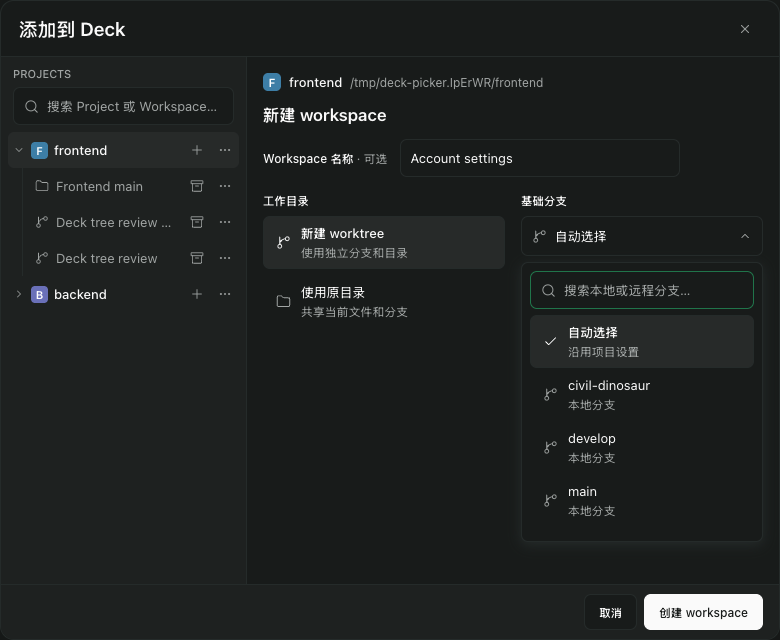
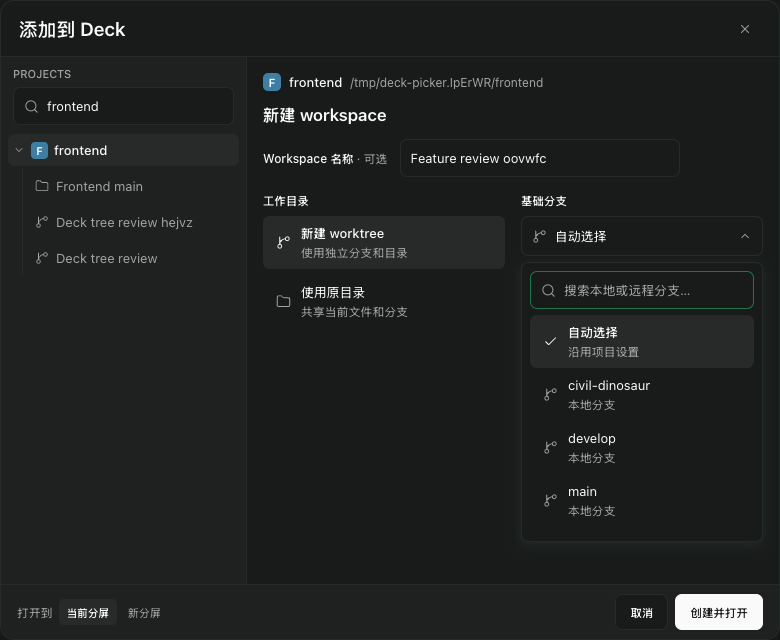
fix: open an Agent draft after creating a workspace (#4)

diff --git a/plugin/client/board.tsx b/plugin/client/board.tsx
@@ -629,8 +629,13 @@ function HostBoard({
 
   const createWorkspace = useCallback(
     async (input: WorkspaceCreation) => {
-      if (!pickerRef.current || workspaceCreation.current)
+      const selected = pickerRef.current;
+      if (!selected || workspaceCreation.current)
         throw new Error("请等待当前操作完成。");
+      if (selected.newSplit && boardRef.current.groups.length >= MAX_SPLITS)
+        throw new Error(SPLIT_LIMIT_MESSAGE);
+      if (!bridge.data?.hasPanel("draft"))
+        throw new Error("当前 Paseo 尚未注册 draft 面板。");
       workspaceCreation.current = true;
       setBusy(true);
       try {
@@ -638,33 +643,44 @@ function HostBoard({
           workspaceCreationOptions(input),
         );
         const refreshed = await directory.refetch();
-        if (
-          !refreshed.data?.workspaces.some((entry) => entry.id === workspace.id)
-        ) {
-          const snapshot = workspace.current() ?? (await workspace.refresh());
-          if (snapshot)
-            cache.setQueryData<Directory>(
-              directoryKey(host.id),
-              (current) =>
-                current && {
-                  ...current,
-                  workspaces: [
-                    snapshot,
-                    ...current.workspaces.filter(
-                      (entry) => entry.id !== snapshot.id,
-                    ),
-                  ].slice(0, 200),
-                },
-            );
+        const observed = refreshed.data?.workspaces.find(
+          (entry) => entry.id === workspace.id,
+        );
+        const snapshot =
+          observed ?? workspace.current() ?? (await workspace.refresh());
+        if (snapshot && !observed) {
+          cache.setQueryData<Directory>(
+            directoryKey(host.id),
+            (current) =>
+              current && {
+                ...current,
+                workspaces: [
+                  snapshot,
+                  ...current.workspaces.filter(
+                    (entry) => entry.id !== snapshot.id,
+                  ),
+                ].slice(0, 200),
+              },
+          );
         }
+        const { groups } = readBoardSnapshot(host.id);
+        const destination =
+          groups.find((group) => group.id === selected.groupId) ?? groups[0];
+        openTarget(
+          { kind: "draft", draftId: `draft-${input.idempotencyKey}` },
+          workspace.id,
+          destination.id,
+          selected.newSplit && groups.length < MAX_SPLITS,
+          snapshot ? workspaceLabel(snapshot) : undefined,
+          selected.splitDirection,
+        );
         toast.show("workspace 已创建", { variant: "success" });
-        return workspace.id;
       } finally {
         workspaceCreation.current = false;
         setBusy(false);
       }
     },
-    [paseo, cache, host.id, directory.refetch, toast],
+    [bridge.data, paseo, cache, host.id, directory.refetch, openTarget, toast],
   );
 
   const createFile = useCallback(

diff --git a/plugin/client/resource-picker.tsx b/plugin/client/resource-picker.tsx
@@ -137,7 +137,7 @@ type ResourcePickerProps = {
   onDestination(next: boolean): void;
   onOpen(target: Target, workspaceId: string, destination?: boolean): void;
   onTerminal(workspaceId: string): void;
-  onCreateWorkspace(input: WorkspaceCreation): Promise<string>;
+  onCreateWorkspace(input: WorkspaceCreation): Promise<void>;
   onCreateFile(workspaceId: string, path: string): Promise<void>;
   onArchive(
     agentId: string,
@@ -333,10 +333,6 @@ function WorkspaceResourcePicker({
         baseBranch,
         idempotencyKey: attempt.current.key,
       });
-    },
-    onSuccess: (id) => {
-      if (project) setExpanded(project.projectId, true);
-      selectWorkspace(id, "agent");
     },
   });
   const fileCreation = useMutation({
@@ -761,7 +757,7 @@ function WorkspaceResourcePicker({
       : error);
   const actionLabel =
     form?.kind === "workspace"
-      ? "创建 workspace"
+      ? "创建并打开"
       : form?.kind === "file"
         ? form.create
           ? "创建并打开"
@@ -1327,7 +1323,7 @@ function WorkspaceResourcePicker({
           }}
         >
           <View style={{ flexDirection: "row", alignItems: "center", gap: 6 }}>
-            {workspace && form?.kind !== "workspace" && (
+            {(workspace || form?.kind === "workspace") && (
               <>
                 <Text style={{ color: c.foregroundMuted, fontSize: 12 }}>
                   打开到

diff --git a/README.md b/README.md
@@ -5,7 +5,7 @@
 <p align="center"><strong>Agents, terminals, and files across workspaces, in one Paseo window.</strong></p>
 
 <p align="center">
-  <a href="https://github.com/MinLeeV5/paseo-deck/releases/tag/v1.2.1"><img src="https://img.shields.io/badge/version-v1.2.1-1f6feb" alt="Version v1.2.1" /></a>
+  <a href="https://github.com/MinLeeV5/paseo-deck/releases/tag/v1.2.2"><img src="https://img.shields.io/badge/version-v1.2.2-1f6feb" alt="Version v1.2.2" /></a>
   <a href="plugin/paseo-plugin.json"><img src="https://img.shields.io/badge/Paseo-0.13.0%2B-0078D4" alt="Paseo 0.13.0 or later" /></a>
   <a href="#scope-and-compatibility"><img src="https://img.shields.io/badge/platform-desktop%20%2F%20Web-2DA44E" alt="Desktop and Web" /></a>
 </p>
@@ -54,10 +54,10 @@ paseo plugin install git:MinLeeV5/paseo-deck:plugin
 
 The `:plugin` suffix selects the plugin directory inside the repository. Paseo downloads the source; no manual clone or dependency installation is needed.
 
-Releases use Semantic Versioning and matching Git tags. To select **v1.2.1** for the initial installation:
+Releases use Semantic Versioning and matching Git tags. To select **v1.2.2** for the initial installation:
 
 ```bash
-paseo plugin install git:MinLeeV5/paseo-deck:plugin --ref v1.2.1
+paseo plugin install git:MinLeeV5/paseo-deck:plugin --ref v1.2.2
 ```
 
 Open **Paseo Deck** in the sidebar, or search for **Paseo Deck** in the Command Center (`⌘K` / `Ctrl+K`). Plugin ID: `paseo-deck`. Current plugin menu labels are in Simplified Chinese.
@@ -74,7 +74,7 @@ Paseo shows the latest revision from the repository's default branch and asks fo
 
 Click a split's **`＋`** and select a workspace in the **Project → Workspace** tree. The resource list shows that workspace's Agents, terminals, or files. Select a conversation and click **添加已有 Agent** (Add existing Agent). Use the status groups and filters to find Agents that need attention, are unread, or are running. Paseo 0.16 also shows background task counts.
 
-A project's **`＋`** creates a workspace and selects it in the dialog. Git projects support isolated worktrees and the original directory. Use **基础分支** (Base branch) to search local or remote branches, or choose **自动选择** (Automatic) to use the project's settings. The client remembers the last choice for each host and project.
+A project's **`＋`** creates a workspace and opens a new Agent draft in the selected split. Git projects support isolated worktrees and the original directory. Use **基础分支** (Base branch) to search local or remote branches, or choose **自动选择** (Automatic) to use the project's settings. The client remembers the last choice for each host and project.
 
 ![Choose the base branch for a new worktree](plugin/assets/workspace-creation.png)
 

diff --git a/README.zh-CN.md b/README.zh-CN.md
@@ -5,7 +5,7 @@
 <p align="center"><strong>在一个 Paseo 窗口中，并排使用不同工作区的 Agent、终端和文件。</strong></p>
 
 <p align="center">
-  <a href="https://github.com/MinLeeV5/paseo-deck/releases/tag/v1.2.1"><img src="https://img.shields.io/badge/version-v1.2.1-1f6feb" alt="版本 v1.2.1" /></a>
+  <a href="https://github.com/MinLeeV5/paseo-deck/releases/tag/v1.2.2"><img src="https://img.shields.io/badge/version-v1.2.2-1f6feb" alt="版本 v1.2.2" /></a>
   <a href="plugin/paseo-plugin.json"><img src="https://img.shields.io/badge/Paseo-0.13.0%2B-0078D4" alt="Paseo 0.13.0 及以上" /></a>
   <a href="#支持范围与兼容性"><img src="https://img.shields.io/badge/platform-desktop%20%2F%20Web-2DA44E" alt="桌面与 Web" /></a>
 </p>
@@ -54,10 +54,10 @@ paseo plugin install git:MinLeeV5/paseo-deck:plugin
 
 末尾的 `:plugin` 指定仓库中的插件目录。Paseo 会自行下载源码，无需手动克隆仓库或安装依赖。
 
-发布版本采用语义化版本号和对应的 Git 标签。首次安装时，可明确选择 **v1.2.1**：
+发布版本采用语义化版本号和对应的 Git 标签。首次安装时，可明确选择 **v1.2.2**：
 
 ```bash
-paseo plugin install git:MinLeeV5/paseo-deck:plugin --ref v1.2.1
+paseo plugin install git:MinLeeV5/paseo-deck:plugin --ref v1.2.2
 ```
 
 点击侧栏 **Paseo Deck**，或在 Command Center（`⌘K` / `Ctrl+K`）中搜索 **Paseo Deck**。插件 ID 为 `paseo-deck`，当前插件菜单使用简体中文。
@@ -74,7 +74,7 @@ Paseo 会显示仓库默认分支的最新版本，确认后才会更新。
 
 点击分屏 Tab 栏中的 **`＋`**，在左侧 **Project → Workspace** 树中选择工作区。右侧显示该工作区的 Agent、终端和文件。选中会话后点击 **添加已有 Agent**；需要处理、未读及正在运行的会话有独立分组和快捷筛选，Paseo 0.16 也会显示后台任务。
 
-Project 行尾的 **`＋`** 用于新建 workspace，成功后在弹窗中选中新工作区。Git 项目可创建独立 worktree 或使用原目录。**基础分支** 支持搜索本地和远程分支，**自动选择** 沿用项目设置，客户端会按主机和项目记住上次选择。
+Project 行尾的 **`＋`** 用于新建 Workspace，成功后在所选分屏直接打开新 Agent 草稿。Git 项目可创建独立 worktree 或使用原目录。**基础分支** 支持搜索本地和远程分支，**自动选择** 沿用项目设置，客户端会按主机和项目记住上次选择。
 
 ![为新 worktree 选择基础分支](plugin/assets/workspace-creation.png)
 

diff --git a/plugin/OVERVIEW.md b/plugin/OVERVIEW.md
@@ -8,7 +8,7 @@
 
 ## 🧩 Native tools across workspaces
 
-Open Paseo Deck from the sidebar or Command Center and use a split's `＋` to select a workspace. Create Agents, terminals, and files from that workspace or double-click an existing resource to open it. Status dots show workspace activity and the highest-priority status in a collapsed project. Hover over a project to create a workspace or over a workspace to archive it. Archiving closes its Tabs and collapses any splits that become empty.
+Open Paseo Deck from the sidebar or Command Center and use a split's `＋` to select a workspace. Create Agents, terminals, and files from that workspace or double-click an existing resource to open it. Status indicators show workspace activity and the highest-priority status in a collapsed project. A project's `＋` creates a workspace and opens a new Agent draft in your selected split. Archiving a workspace closes its Tabs and collapses any splits that become empty.
 
 - **Native conversations**: Use Paseo's conversation UI, composer, and file panels inside each split.
 - **Shared drafts**: Unsent text stays in sync between Deck and the Agent's original workspace on the same client.

diff --git a/plugin/OVERVIEW.zh-CN.md b/plugin/OVERVIEW.zh-CN.md
@@ -8,7 +8,7 @@
 
 ## 🧩 跨工作区，使用原生工具
 
-从侧栏或 Command Center 打开 Paseo Deck，点击分屏中的 `＋` 选择 Workspace。在该工作区内新建 Agent、终端或文件，也可以双击添加已有资源。状态圆点显示 Workspace 的活动，折叠的 Project 会汇总优先级最高的状态。悬停在 Project 行可新建 Workspace，悬停在 Workspace 行可发起归档。归档后会关闭相关 Tab，并收起因此变空的分屏。
+从侧栏或 Command Center 打开 Paseo Deck，点击分屏中的 `＋` 选择 Workspace。在该工作区内新建 Agent、终端或文件，也可以双击添加已有资源。状态标识显示 Workspace 的活动，折叠的 Project 会汇总优先级最高的状态。Project 行的 `＋` 创建 Workspace 后，会在所选分屏打开一个新 Agent 草稿。归档 Workspace 会关闭相关 Tab，并收起因此变空的分屏。
 
 - **原生对话**：在各分屏中使用 Paseo 的原生会话、输入框与文件面板。
 - **共享草稿**：同一客户端内，Deck 与 Agent 原工作区的未发送文字双向同步。
